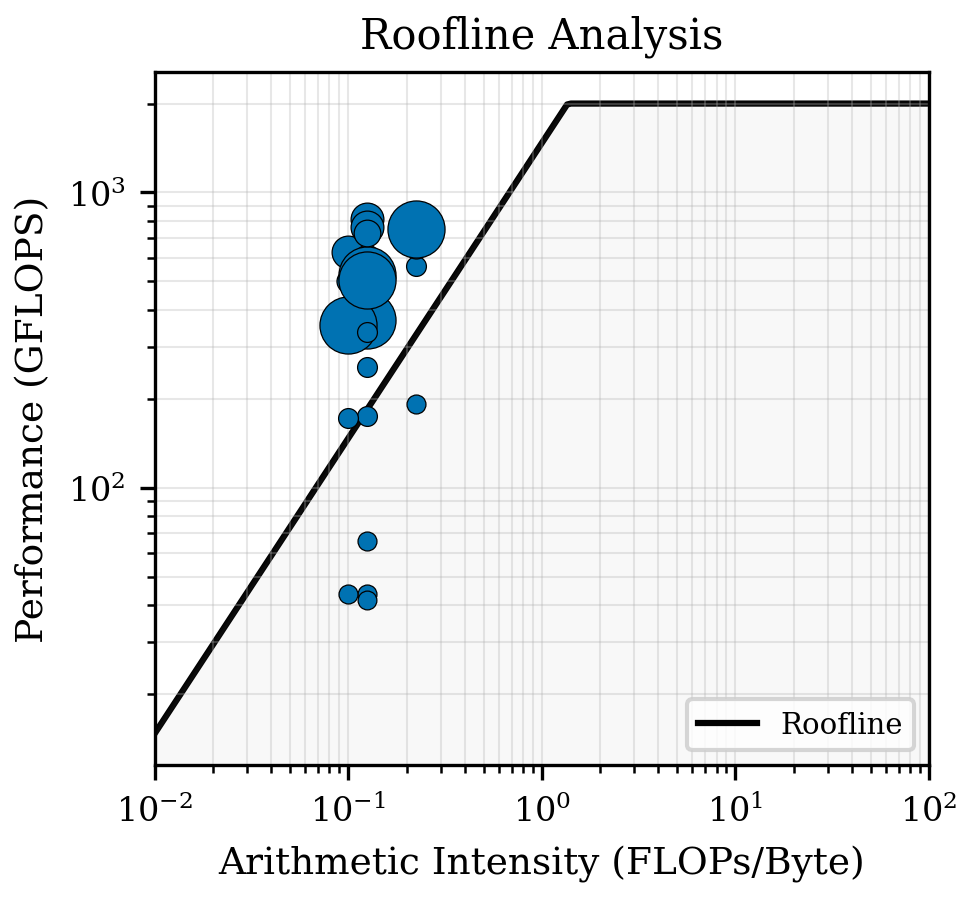
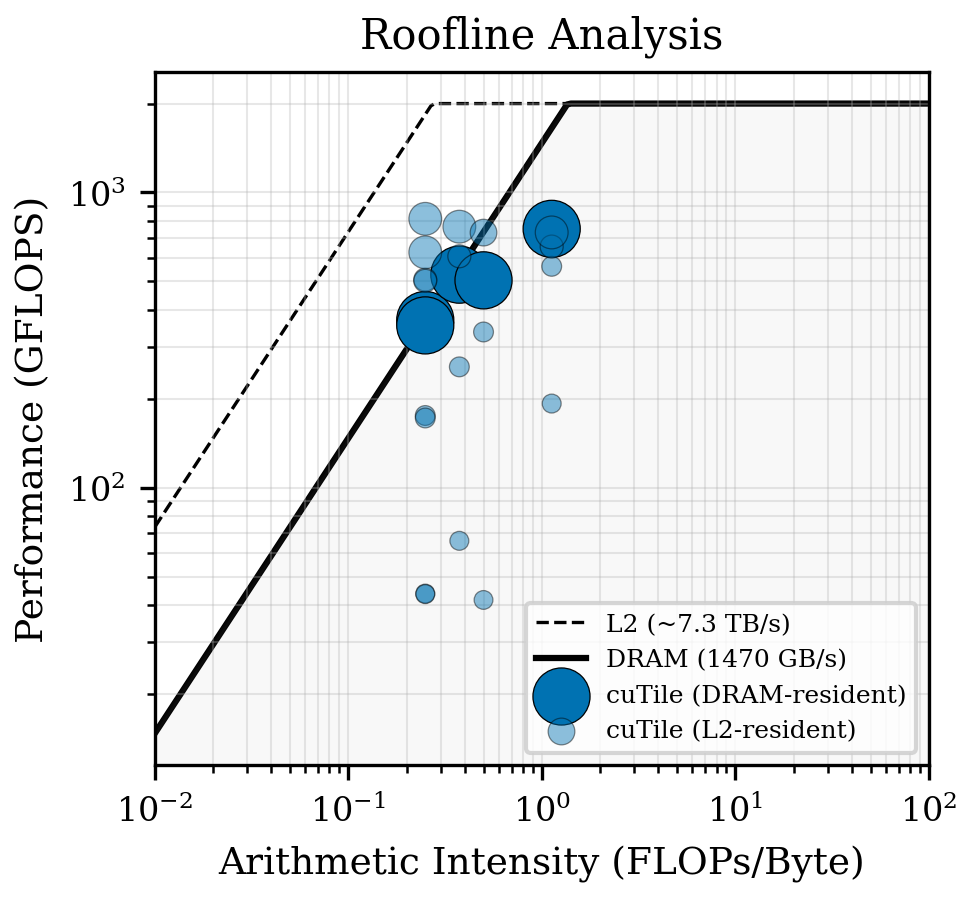
fix(roofline): use DRAM-bound AI; show DRAM + L2 ceilings
The old roofline plotted dots above the bandwidth ceiling, which is
physically impossible — caused by two compounding errors:

1. ``arithmetic_intensity()`` used (loads + stores) * dtype_bytes,
   counting every stencil access as a DRAM load. The 5-pt and 9-pt
   stencils only stream 1 input + 1 output per point through DRAM
   (the redundant accesses come from L1/L2). True AI is 2-5x higher.

2. The plot had only the DRAM ceiling. Workloads whose working set
   fits in the 96 MB L2 (heat_2d up to 2048^2, 3D Lap up to 128^3)
   reach above DRAM peak because they run from cache after iter 1.

Now: AI = flops / (2 * dtype_bytes), and the plot draws both a
DRAM ceiling (STREAM-measured) and an L2 ceiling (~5x DRAM as a
soft bound). Points are split into L2-resident vs DRAM-resident by
working-set size so the regime is visually obvious.

The largest DRAM-resident points now land at ~88% of the DRAM
roofline — the result we'd expect from a well-tuned stencil.

diff --git a/benchmarks/plotting.py b/benchmarks/plotting.py
@@ -38,20 +38,33 @@ def _setup_style():
 
 
 def plot_roofline(data: dict, outdir: Path):
-    """Roofline model: achieved performance vs arithmetic intensity."""
+    """Roofline: achieved performance vs DRAM-bound arithmetic intensity.
+
+    Two ceilings: peak DRAM BW (STREAM-measured) and an estimated L2 BW.
+    Cache-resident workloads (working set < L2 capacity) can land between
+    the two ceilings; we mark those points to make the regime explicit.
+    """
     _setup_style()
     fig, ax = plt.subplots(figsize=FIG_ROOFLINE)
 
     peak_bw = data["gpu"]["peak_bw_gbs"]
-    peak_gflops = 2000.0  # will be refined from actual GPU specs
+    peak_gflops = 2000.0
+    # Blackwell L2 BW is roughly 5x DRAM (architecture rule of thumb);
+    # gives a soft upper bound for cache-resident regimes.
+    l2_bw = peak_bw * 5.0
+    l2_capacity_bytes = 96 * 1024 * 1024  # RTX PRO 6000 Blackwell
 
     ai_range = np.logspace(-2, 2, 200)
-    mem_roof = peak_bw * ai_range
-    compute_roof = np.full_like(ai_range, peak_gflops)
-    roof = np.minimum(mem_roof, compute_roof)
-    ax.loglog(ai_range, roof, "k-", linewidth=1.5, label="Roofline", zorder=1)
-    ax.fill_between(ai_range, roof, alpha=0.05, color="gray")
+    dram_roof = np.minimum(peak_bw * ai_range, peak_gflops)
+    l2_roof = np.minimum(l2_bw * ai_range, peak_gflops)
+    ax.loglog(ai_range, l2_roof, "k--", linewidth=0.8,
+              label=f"L2 (~{l2_bw / 1000:.1f} TB/s)", zorder=1)
+    ax.loglog(ai_range, dram_roof, "k-", linewidth=1.5,
+              label=f"DRAM ({peak_bw:.0f} GB/s)", zorder=1)
+    ax.fill_between(ai_range, dram_roof, alpha=0.05, color="gray")
 
+    cache_resident_pts = []
+    dram_pts = []
     for row in data["results"]:
         sname = row["stencil"]
         if "cutile" not in row or "error" in row.get("cutile", {}):
@@ -59,14 +72,29 @@ def plot_roofline(data: dict, outdir: Path):
         ai = arithmetic_intensity(sname)
         gflops = row["cutile"]["gpoints_per_s"] * STENCIL_META[sname]["flops_per_point"]
         npts = row["npoints"]
-        ax.scatter(ai, gflops, c=COLORS["cuTile-DSL"], marker="o",
-                   s=20 + npts / 1e5, edgecolors="black", linewidths=0.3, zorder=3)
+        # Working set: 2 arrays (in + out) at dtype_bytes per point
+        ws = 2 * npts * STENCIL_META[sname]["dtype_bytes"]
+        target = cache_resident_pts if ws < l2_capacity_bytes else dram_pts
+        target.append((ai, gflops, npts))
+
+    if dram_pts:
+        x, y, n = zip(*dram_pts)
+        ax.scatter(x, y, c=COLORS["cuTile-DSL"], marker="o",
+                   s=[20 + ni / 1e5 for ni in n],
+                   edgecolors="black", linewidths=0.3, zorder=3,
+                   label="cuTile (DRAM-resident)")
+    if cache_resident_pts:
+        x, y, n = zip(*cache_resident_pts)
+        ax.scatter(x, y, c=COLORS["cuTile-DSL"], marker="o",
+                   s=[20 + ni / 1e5 for ni in n],
+                   edgecolors="black", linewidths=0.3, zorder=3,
+                   alpha=0.45, label="cuTile (L2-resident)")
 
     ax.set_xlabel("Arithmetic Intensity (FLOPs/Byte)")
     ax.set_ylabel("Performance (GFLOPS)")
     ax.set_title("Roofline Analysis")
     ax.set_xlim(0.01, 100)
-    ax.legend(loc="lower right")
+    ax.legend(loc="lower right", fontsize=6)
     ax.grid(True, which="both", alpha=0.3, linewidth=0.5)
 
     fig.savefig(outdir / "roofline.pdf")

diff --git a/benchmarks/stencils.py b/benchmarks/stencils.py
@@ -163,6 +163,14 @@ def interior_size(domain: tuple[int, ...]) -> int:
 
 
 def arithmetic_intensity(name: str) -> float:
-    """Operational intensity in flops/byte."""
+    """DRAM-bound operational intensity in flops/byte.
+
+    For a Jacobi-style stencil sweeping a single field (input -> output),
+    each output point causes one read of the input array and one write of
+    the output array from main memory; intra-stencil accesses come from
+    L1/L2 cache. So DRAM traffic = 2 * dtype_bytes per output point.
+    Counting every stencil access as a DRAM load (the naive
+    ``loads_per_point + stores_per_point`` view) under-states AI by 2-5x.
+    """
     m = STENCIL_META[name]
-    return m["flops_per_point"] / ((m["loads_per_point"] + m["stores_per_point"]) * m["dtype_bytes"])
+    return m["flops_per_point"] / (2 * m["dtype_bytes"])
